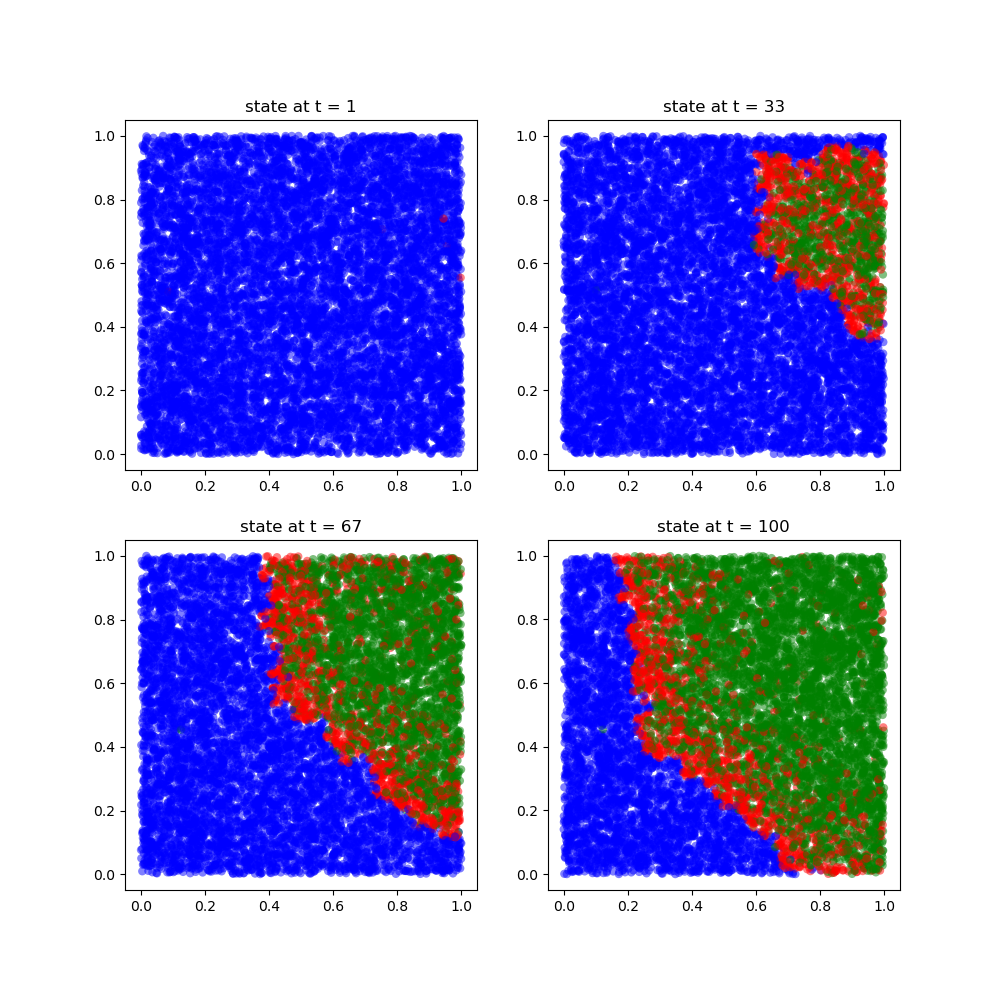
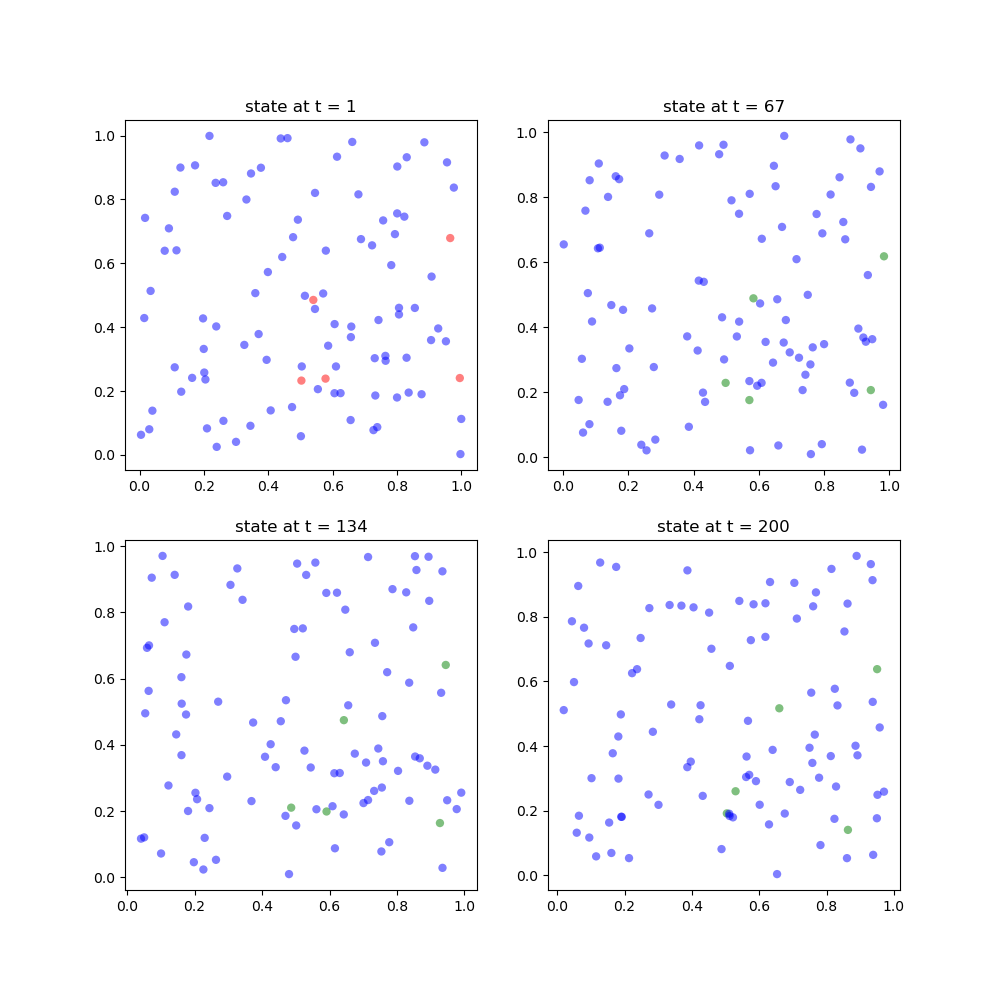
new run

diff --git a/Scripts/smart_agent_sim.py b/Scripts/smart_agent_sim.py
@@ -61,7 +61,7 @@ X = sim_agent(
     q=Q,
     k=K,
     size=Size,
-    t=100,
+    t=200,
     knowledge_threshold=KT,
     fear_threshold=FT,
     knowledge_distance=KD,
@@ -72,7 +72,7 @@ X = sim_agent(
 
 figfull = plt.figure(figsize=(10, 10))
 count = 1
-for t in [0, 32, 66, 99]:
+for t in [0, 66, 133, 199]:
     plt.subplot(2, 2, count)
     for ii in range(len(X[3][t])):
         if X[3][t][ii] == 0:
@@ -96,8 +96,8 @@ Size = 10000
 T = 100
 KT = 1000
 FT = 1000
-KD = 0.1
-FD = 0.1
+KD = 0.175
+FD = 0.175
 PI = 1
 II = 5
 
@@ -106,7 +106,7 @@ X = sim_agent(
     q=Q,
     k=K,
     size=Size,
-    t=100,
+    t=200,
     knowledge_threshold=KT,
     fear_threshold=FT,
     knowledge_distance=KD,
@@ -117,7 +117,7 @@ X = sim_agent(
 
 figfull = plt.figure(figsize=(10, 10))
 count = 1
-for t in [0, 32, 66, 99]:
+for t in [0, 66, 133, 199]:
     plt.subplot(2, 2, count)
     for ii in range(len(X[3][t])):
         if X[3][t][ii] == 0:
